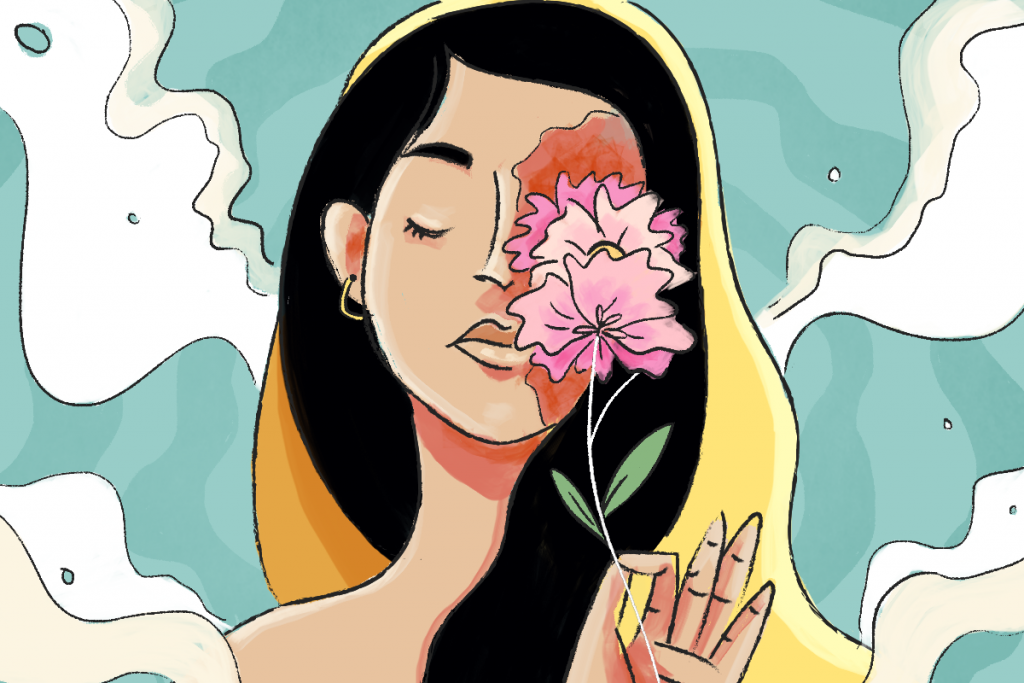
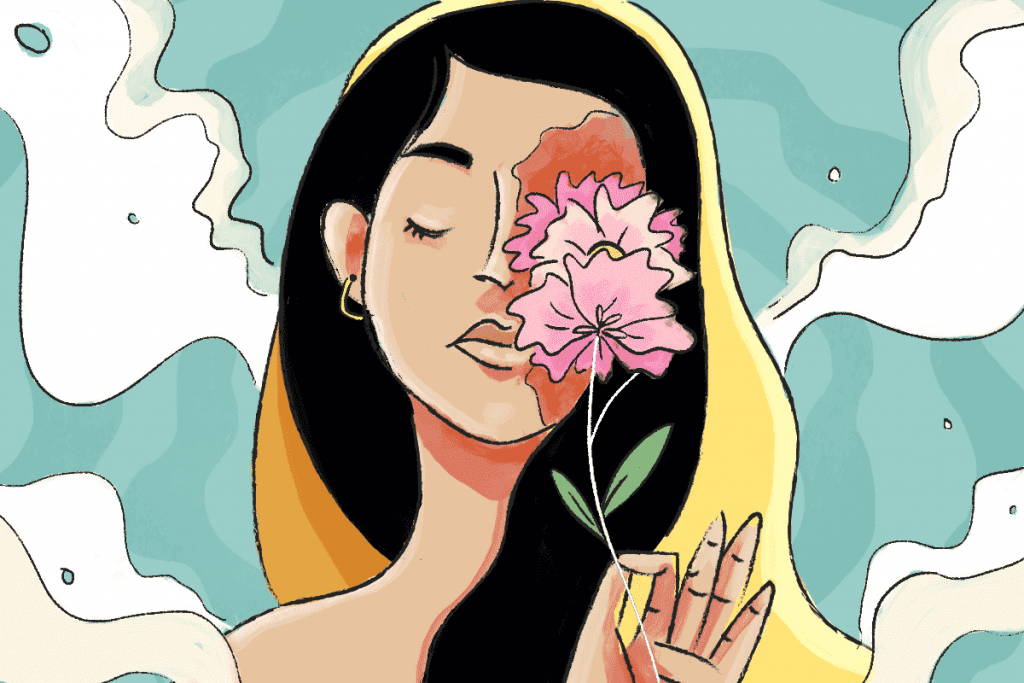
Optimize sizes of images

Changed region(s): [[0.5312, 0.4919, 0.625, 0.5534], [0.5, 0.3382, 0.5312, 0.369], [0.5, 0.246, 0.5312, 0.2767]]

diff --git a/anishas/love-and-rain/index.html b/anishas/love-and-rain/index.html
@@ -55,9 +55,9 @@
 			<div id="post-88" class="post-88 post type-post status-publish format-standard has-post-thumbnail hentry category-article has-featured-image">
 
 							
-					<div class="featured-media" style="background-image: url( https://anishas.com.np/content/uploads/2020/02/askrsb.jpg );">
+					<div class="featured-media" style="background-image: url( https://anishas.com.np/content/uploads/2020/07/askrsb.jpg );">
 			
-						<img width="1200" height="801" src="https://anishas.com.np/content/uploads/2020/02/askrsb.jpg" class="attachment-post-image size-post-image wp-post-image" alt="Red, pink and white hearts in various shapes scatterd over a wooden floor" srcset="https://anishas.com.np/content/uploads/2020/02/askrsb.jpg 1200w,https://anishas.com.np/content/uploads/2020/02/askrsb-300x200.jpg 300w,https://anishas.com.np/content/uploads/2020/02/askrsb-1024x684.jpg 1024w,https://anishas.com.np/content/uploads/2020/02/askrsb-768x513.jpg 768w" sizes="(max-width: 1200px) 100vw, 1200px"></div>
+						<img width="1200" height="800" src="https://anishas.com.np/content/uploads/2020/07/askrsb.jpg" class="attachment-post-image size-post-image wp-post-image" alt="Red, pink and white hearts in various shapes scatterd over a wooden floor" srcset="https://anishas.com.np/content/uploads/2020/07/askrsb.jpg 1200w,https://anishas.com.np/content/uploads/2020/07/askrsb-300x200.jpg 300w,https://anishas.com.np/content/uploads/2020/07/askrsb-1024x683.jpg 1024w,https://anishas.com.np/content/uploads/2020/07/askrsb-768x512.jpg 768w" sizes="(max-width: 1200px) 100vw, 1200px"></div>
 						
 									
 				<div class="post-header section">

diff --git a/love-and-rain/index.html b/love-and-rain/index.html
@@ -55,9 +55,9 @@
 			<div id="post-88" class="post-88 post type-post status-publish format-standard has-post-thumbnail hentry category-article has-featured-image">
 
 							
-					<div class="featured-media" style="background-image: url( https://anishas.com.np/content/uploads/2020/02/askrsb.jpg );">
+					<div class="featured-media" style="background-image: url( https://anishas.com.np/content/uploads/2020/07/askrsb.jpg );">
 			
-						<img width="1200" height="801" src="https://anishas.com.np/content/uploads/2020/02/askrsb.jpg" class="attachment-post-image size-post-image wp-post-image" alt="Red, pink and white hearts in various shapes scatterd over a wooden floor" srcset="https://anishas.com.np/content/uploads/2020/02/askrsb.jpg 1200w,https://anishas.com.np/content/uploads/2020/02/askrsb-300x200.jpg 300w,https://anishas.com.np/content/uploads/2020/02/askrsb-1024x684.jpg 1024w,https://anishas.com.np/content/uploads/2020/02/askrsb-768x513.jpg 768w" sizes="(max-width: 1200px) 100vw, 1200px"></div>
+						<img width="1200" height="800" src="https://anishas.com.np/content/uploads/2020/07/askrsb.jpg" class="attachment-post-image size-post-image wp-post-image" alt="Red, pink and white hearts in various shapes scatterd over a wooden floor" srcset="https://anishas.com.np/content/uploads/2020/07/askrsb.jpg 1200w,https://anishas.com.np/content/uploads/2020/07/askrsb-300x200.jpg 300w,https://anishas.com.np/content/uploads/2020/07/askrsb-1024x683.jpg 1024w,https://anishas.com.np/content/uploads/2020/07/askrsb-768x512.jpg 768w" sizes="(max-width: 1200px) 100vw, 1200px"></div>
 						
 									
 				<div class="post-header section">

diff --git a/author/anisha/index.html b/author/anisha/index.html
@@ -116,7 +116,7 @@
 	</a>
 
 </div>
-<div id="post-88" class="post post-88 type-post status-publish format-standard has-post-thumbnail hentry category-article has-featured-image" style="background-image: url( https://anishas.com.np/content/uploads/2020/02/askrsb.jpg );">
+<div id="post-88" class="post post-88 type-post status-publish format-standard has-post-thumbnail hentry category-article has-featured-image" style="background-image: url( https://anishas.com.np/content/uploads/2020/07/askrsb.jpg );">
 
 	<a href="https://anishas.com.np/love-and-rain/" title="Love And Rain" class="post-header section medium-padding">
 		

diff --git a/category/article/index.html b/category/article/index.html
@@ -116,7 +116,7 @@
 	</a>
 
 </div>
-<div id="post-88" class="post post-88 type-post status-publish format-standard has-post-thumbnail hentry category-article has-featured-image" style="background-image: url( https://anishas.com.np/content/uploads/2020/02/askrsb.jpg );">
+<div id="post-88" class="post post-88 type-post status-publish format-standard has-post-thumbnail hentry category-article has-featured-image" style="background-image: url( https://anishas.com.np/content/uploads/2020/07/askrsb.jpg );">
 
 	<a href="https://anishas.com.np/love-and-rain/" title="Love And Rain" class="post-header section medium-padding">
 		

diff --git a/category/article/page/1/index.html b/category/article/page/1/index.html
@@ -116,7 +116,7 @@
 	</a>
 
 </div>
-<div id="post-88" class="post post-88 type-post status-publish format-standard has-post-thumbnail hentry category-article has-featured-image" style="background-image: url( https://anishas.com.np/content/uploads/2020/02/askrsb.jpg );">
+<div id="post-88" class="post post-88 type-post status-publish format-standard has-post-thumbnail hentry category-article has-featured-image" style="background-image: url( https://anishas.com.np/content/uploads/2020/07/askrsb.jpg );">
 
 	<a href="https://anishas.com.np/love-and-rain/" title="Love And Rain" class="post-header section medium-padding">
 		

diff --git a/index.html b/index.html
@@ -98,7 +98,7 @@
 	</a>
 
 </div>
-<div id="post-88" class="post post-88 type-post status-publish format-standard has-post-thumbnail hentry category-article has-featured-image" style="background-image: url( https://anishas.com.np/content/uploads/2020/02/askrsb.jpg );">
+<div id="post-88" class="post post-88 type-post status-publish format-standard has-post-thumbnail hentry category-article has-featured-image" style="background-image: url( https://anishas.com.np/content/uploads/2020/07/askrsb.jpg );">
 
 	<a href="https://anishas.com.np/love-and-rain/" title="Love And Rain" class="post-header section medium-padding">
 		

diff --git a/page/1/index.html b/page/1/index.html
@@ -98,7 +98,7 @@
 	</a>
 
 </div>
-<div id="post-88" class="post post-88 type-post status-publish format-standard has-post-thumbnail hentry category-article has-featured-image" style="background-image: url( https://anishas.com.np/content/uploads/2020/02/askrsb.jpg );">
+<div id="post-88" class="post post-88 type-post status-publish format-standard has-post-thumbnail hentry category-article has-featured-image" style="background-image: url( https://anishas.com.np/content/uploads/2020/07/askrsb.jpg );">
 
 	<a href="https://anishas.com.np/love-and-rain/" title="Love And Rain" class="post-header section medium-padding">
 		

diff --git a/category/article/feed/index.html b/category/article/feed/index.html
@@ -12,7 +12,7 @@
 	<atom:link href="https://anishas.com.np/category/article/feed/" rel="self" type="application/rss+xml" />
 	<link>https://anishas.com.np/</link>
 	<description></description>
-	<lastBuildDate>Thu, 30 Jul 2020 09:49:13 +0000</lastBuildDate>
+	<lastBuildDate>Thu, 30 Jul 2020 11:07:28 +0000</lastBuildDate>
 	<language>en-US</language>
 	<sy:updatePeriod>
 	hourly	</sy:updatePeriod>

diff --git a/comments/feed/index.html b/comments/feed/index.html
@@ -11,7 +11,7 @@
 	<atom:link href="https://anishas.com.np/comments/feed/" rel="self" type="application/rss+xml" />
 	<link>https://anishas.com.np/</link>
 	<description></description>
-	<lastBuildDate>Thu, 30 Jul 2020 10:16:28 +0000</lastBuildDate>
+	<lastBuildDate>Thu, 30 Jul 2020 11:07:28 +0000</lastBuildDate>
 	<sy:updatePeriod>
 	hourly	</sy:updatePeriod>
 	<sy:updateFrequency>

diff --git a/feed/index.html b/feed/index.html
@@ -12,7 +12,7 @@
 	<atom:link href="https://anishas.com.np/feed/" rel="self" type="application/rss+xml" />
 	<link>https://anishas.com.np/</link>
 	<description></description>
-	<lastBuildDate>Thu, 30 Jul 2020 09:49:13 +0000</lastBuildDate>
+	<lastBuildDate>Thu, 30 Jul 2020 11:07:28 +0000</lastBuildDate>
 	<language>en-US</language>
 	<sy:updatePeriod>
 	hourly	</sy:updatePeriod>
